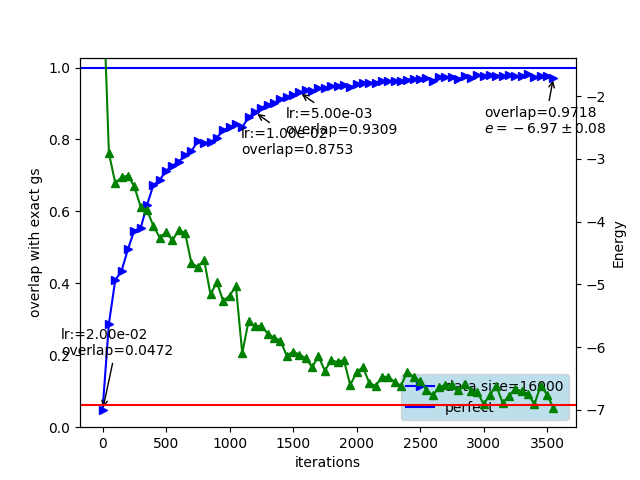
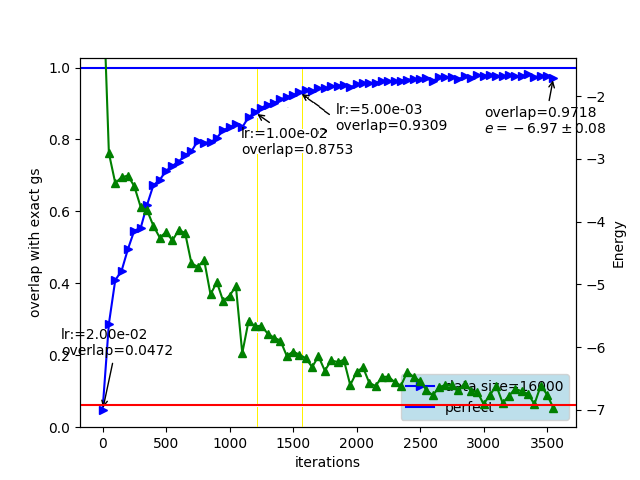
Tables and Figures edited!

Changed region(s): [[0.4375, 0.1875, 0.7188, 0.2812]]

diff --git a/Draft/template.tex b/Draft/template.tex
@@ -23,6 +23,7 @@
 \usepackage{braket}
 \usepackage{bbold}
 
+\usepackage[table]{xcolor}
 \usepackage{todonotes}
 
 
@@ -162,7 +163,7 @@ The Hamiltonian of the Kitaev model is a nearest-neighbor interaction of Pauli m
 \begin{figure}[h!]
 	\centering
 	\includegraphics[width=0.8\textwidth]{./images/diag_1.png}
-	\caption{\label{tab:r_space} Kitaev Honeycomb lattice model on a torus: The generators of the lattice in position space are named
+	\caption{\label{kit_torus} Kitaev Honeycomb lattice model on a torus: The generators of the lattice in position space are named
 	$\textbf{e}_{1}$ and  $\textbf{e}_{2}$, as shown in the image above. Hence, the lattice points are $\textbf{L} = n_{1}\textbf{e}_{1} + 
 	n_{2}\textbf{e}_{2}$ with $n_{1}, n_{2} \in \mathbb{Z}$ and the above lattice is drawn for $N_{1} = N_{2} = 4 $ with toric boundary conditions.} 
 	\label{fig:fig1}
@@ -541,7 +542,7 @@ where we used $i c^x_j c^y_j = -\sigma^z_j D_j$ and cyclic permutations. Conside
 
 Now we are at a point to explain in detail why the operators $\hat{O}_1$ and $\hat{O}_2$ can create vortices in the system. As mentioned earlier, if we flip the sign of the eigenvalue of the vortex operator at p, a vortex will be created in the system. Looking back at Equ.\hspace{0.2mm}\ref{eq:26}, we see that the vortex configuration $\{W_p\}$ is created by fixing the gauge at every link $\{u_{ij}\}$. Therefore, by changing the link operators, we can move between vortex sectors. Starting from a vortex-free sector with all link operators being $+1$, applying $\hat{O}_1$ on site $a$ will leave the $\sigma^z_a$ untouched while flipping the $\sigma^x_a$ and $\sigma^y_a$. Consequently, this will change the sign of the eigenvalue of the $u_{ij}$ for x-link and y-link attached to site $a$, leaving the system with $B_{p_1} = -1$ and $B_{p_2} = -1$. We can also move the vortices around in the system, by consecutively applying these operators on the particular sites in a path for which we want to move the vortices along. As an example, the red path shown in the Fig.\hspace{0.2mm}\ref{fig:string} corresponds to the operator
 
-\begin{equation}\label{eq:29}
+\begin{equation}
 	\begin{aligned}
 		\hat{O} = \exp{(-i\frac{\pi}{2}\sigma^z_i)} \exp{(-i\frac{\pi}{2}\sigma^x_j)}
 		\end{aligned}
@@ -582,27 +583,35 @@ Next, one needs to evaluate how $(-i \hat{\sigma}^{\alpha}_a)$ acts on $|\Xi\ran
 
 \section{Results and Discussion}\label{sec5}
 
-% \begin{figure}[h!]
-% 	\centering
-% 	\includegraphics[width=0.8\textwidth]{E_GS.pdf}
-% 	\includegraphics[width=0.8\textwidth]{E_p.pdf}
-% 	\includegraphics[width=0.8\textwidth]{DeltaE.pdf}
-% 	\includegraphics[width=0.8\textwidth]{plots.pdf}
-% 	\caption{\label{tab:r_space} Kitaev Honeycomb lattice model on a torus: The generators of the lattice in position space are named as
-% 	$\textbf{e}_{1}$ and  $\textbf{e}_{2}$, as shown in the image above. Hence, the lattice points are $\textbf{L} = n_{1}\textbf{e}_{1} + 
-% 	n_{2}\textbf{e}_{2}$ with $n_{1}, n_{2} \in \mathbb{Z}$ and the above lattice is drawn for $N_{1} = N_{2} = 4 $ with toric boundary conditions.} 
-% \end{figure}
-
 \subsection{Groundstate}
 
 In this section, we present the results for the groundstate energy estimate of different system sizes for the proposed mapping discussed in Section\hspace{0.2mm}\ref{sec3}. These results are also compared to the exact analytical expression given in Equ.\hspace{0.2mm}\ref{eq:17}. The absolute value of the energies is plotted in Fig.\hspace{0.2mm}\ref{tab:r_space}. All results for this and the following sections are for the \textit{non-Abelian} phase $J_x = J_y = J_z = 1$.
 
 The RBM has a simple fully-connected and two-layered architecture. The optimized value for the density of hidden nodes was found to be $\alpha = \frac{num_{h}}{num_{v}} = 2$. For lower values of $\alpha$, the network does not give an accurate estimate of energies, while the larger values cause over-fitting and again lead to inaccurate results. For training, the configuration space of the network has been sampled for hundreds of  times, depending on the lattice size, using the Metropolis algorithm. Moreover, the stochastic gradient descent algorithm has been used for optimization using a suitable number of iterations such that the network converges to a low enough minimum of the energy landscape.
 
+\vspace{1cm}
+
+{\rowcolors{2}{green!80!yellow!50}{green!60!yellow!30}
+\begin{tabular}[c]{|c||c|c|c|c|c|c|c|c|c|c|}
+\hline
+lattice size&$2\times2$    &$2\times3$    &$2\times4$     &$3\times3$     &$3\times4$     &$4\times4$     &$5\times5$     &$6\times6$     &$7\times7$ \\
+\hline \hline
+a.i         &-6.4721&-9.8003&-12.5851&-14.2915&-18.9869&-25.1282&-39.3892&-56.7529&-77.1249\\
+\hline
+a.ii        &-6     &-9.2915&-12.4721&-14.2915&-19.0918&-25.4164&-39.3892&-56.2668&-77.1249\\
+\hline
+b           &-6     &-9.2915&-12.4721&-14.2915&-19.0918&-25.4164&-39.3892&-56.2668&-77.1249\\
+\hline
+c           &-6.9282&-9.8003&-12.9443&-14.2915&-19.0918&-&-&-&-\\
+\hline
+d           &-6.7197&-9.5414&-12.573 &-13.7374&-18.0466&-24.0783&-37.305 &-52.920 &-71.793 \\ 
+\hline
+\end{tabular}
+}
 \begin{figure}[!htb]
 	\centering
-	\includegraphics[width=0.5\textwidth]{./images/gs_tbl.png}
-	\includegraphics[width=0.7\textwidth]{./images/plots.pdf}
+	%\includegraphics[width=0.5\textwidth]{./images/gs_tbl.png}
+	\includegraphics[width=\textwidth]{./images/plots.pdf}
 	\caption{\label{tab:r_space} Numerical results for groundstate energy calculation using Restricted Boltzmann Machines (RBM) 
 	and Feed-Forward Neural Networks (FFNN) compared to the analytically obtained exact groundstate energy using Equ.\hspace{0.2mm}\ref{eq:16}.} 
 \end{figure}
@@ -621,15 +630,41 @@ The numerical results obtained are shown in Fig.\hspace{0.2mm}\ref{tab:r_space}.
 
 Based on the results obtained for the energy of the groundstate of the system, training of the network was tested and optimized by changing the learning rate for different training phases and iteration numbers. However, the outcome did not considerably change or improve and it seems that the above results are the most accurate results one can get for this particular network architecture. We will later elaborate more on the reasons behind this discrepancy observed between the energy obtained using RBM and the analytical exact values.
 
-In order to check the effect of the relative number of hidden and visible nodes on the outcome of the network, different values for $\alpha$ were tested, keeping other parameters fixed. The $\alpha$ parameter was changed just by changing the number of hidden nodes for a fixed system size (and hence fixed visible layer size) and the results are outlined in the table below, including the number of free parameters of the network and the time needed for the network to be trained. In order to keep things simple, we focus on one particular system size. The results summarized in the table are for a $5 \times 5$ plaquette lattice with exact analytic energy being $-39.3892$.
+In order to check the effect of the relative number of hidden and visible nodes on the outcome of the network, different values for $\alpha$ were tested, keeping other parameters fixed. The $\alpha$ parameter was changed just by changing the number of hidden nodes for a fixed system size (and hence fixed visible layer size) and the results are outlined in the table below, including the number of free parameters of the network. In order to keep things simple, we focus on one particular system size. The results summarized in the table are for a $5 \times 5$ plaquette lattice with exact analytic energy being $-39.3892$.
 
-\begin{figure}[!htb]
+\begin{table}[!htb]
 	\centering
-	\includegraphics[width=0.6\textwidth]{./images/alpha.png}
+	{\rowcolors{2}{green!80!yellow!50}{green!60!yellow!30}
+    \begin{tabular}{|c|c|c|c|}
+    \hline
+    $\alpha$&Number of Hidden Nodes&Number of Parameters&Energy\\
+    \hline \hline
+    0.1&  5& 305&-27.7808(59)\\
+    \hline
+    0.3& 15& 815&-33.4312(37)\\
+    \hline
+    0.5& 25&1325&-36.6024(22)\\
+    \hline
+    1.0& 50&2600&-37.2464(13)\\
+    \hline
+    1.5& 75&3875&-37.1235(15)\\
+    \hline
+    2.0&100&5150&-37.3054(14)\\
+    \hline
+    3.0&150&7700&-37.3037(14)\\
+    \hline
+    4.0&200&10250&-37.1007(16)\\
+    \hline
+    6.0&300&15350&-37.2989(14)\\
+    \hline
+    8.0&400&20450&-37.1710(15)\\
+    \hline
+    10.0&500&25550&-37.1946(15)\\
+    \hline
+    \end{tabular}}
+    \vspace{2mm}
 	\caption{\label{tab:alpha} Numerical results for the density of hidden nodes, $\alpha = \frac{num_{h}}{num_{v}}$, and its influence on groundstate energy calculation.} 
-\end{figure}
-
-\todo{we need to get rid of time column, as it does not show anything and depends on the cpu and ... computing resources we used.}
+\end{table}
 
 % From these results we can infer the following:
 
@@ -641,12 +676,26 @@ In order to check the effect of the relative number of hidden and visible nodes 
 
 \textbf{The performance of FFNN vs. no-visible-bias RBM}
 
-In the table of Fig.\hspace{0.2mm}\ref{tab:ffnn}, we give a brief summary of the comparison results between an FFNN with one layer and a no-visible-bias RBM (referred to as novb RBM in the table). The two architectures are similar and for the same computational resources (such as CPU and memory) and system size these results have been obtained.
-\begin{figure}[!htb]
+In Table \hspace{0.2mm}\ref{tab:ffnn}, we give a brief summary of the comparison results between an FFNN with one layer and a no-visible-bias RBM (referred to as novb-RBM in the table). The two architectures are similar and for the same computational resources (such as CPU and memory) and system size these results have been obtained.
+
+\begin{table}[!htb]
 	\centering
-	\includegraphics[width=0.8\textwidth]{./images/ffnn.png}
-	\caption{\label{tab:ffnn} Comparison between a single-layer FFNN and a novb RBM performance, in terms of training time and accuracy of energy for a $5 \times 5$ plaquette lattice.} 
-\end{figure}    
+    {\rowcolors{2}{green!80!yellow!50}{green!60!yellow!30}
+    \begin{tabular}{|c|c|c|c|c|c|c|}
+    \hline
+    $\alpha$&\# Hidden Nodes&\# Parameters&Energy(FFNN)&Energy(novb-RBM)&Time(FFNN)&Time(novb-RBM)\\
+    \hline \hline
+    1.0& 50&2550&-37.2401(15)&-37.1532(15)&2783s&2754s\\
+    \hline
+    2.0&100&5100&-37.2958(14)&-36.8954(18)&4591s&5476s\\
+    \hline
+    3.0&150&7650&-37.3007(14)&-37.2191(15)&6889s&8331s\\
+    \hline
+    \end{tabular}}
+    \vspace{2mm}
+	%\includegraphics[width=0.8\textwidth]{./images/ffnn.png}
+	\caption{\label{tab:ffnn} Comparison between a single-layer FFNN and a novb-RBM performance, in terms of training time and accuracy of energy for a $5 \times 5$ plaquette lattice.} 
+\end{table}    
 
 The conclusion we reach is:
 \begin{enumerate}
@@ -666,11 +715,24 @@ As described in Section\hspace{0.2mm}\ref{sec4}, there are three theoretically e
     
 We applied all three methods to a 3x3 lattice and computed the corresponding energy levels for excited states. The numerical result obtained for the groundstate energy of a 3x3 lattice is -13.7166(2), while the theoretical groundstate energy is -14.2915. For excited states obtained by flipping spins, the results we get are shown in the table below.
 
-\begin{figure}[!htb]
+\begin{table}[!htb]
 	\centering
-	\includegraphics[width=0.6\textwidth]{./images/3x3.png}
+	{\rowcolors{2}{green!80!yellow!50}{green!60!yellow!30}
+    \begin{tabular}{|c||c|c|c|}
+    \hline
+    Spins Flipped&Energy(Method A)&Energy(Method B)&Energy(Method C)\\
+    \hline \hline
+    $\sigma_8^y$&-11.7335(5) &-12.1070(51)&-13.9146\\
+    \hline
+    $\sigma_9^y$&-11.7474(5) &-11.8873(57)&-13.9146\\
+    \hline
+    $\sigma_8^x\sigma_8^z$&unrealizable&-12.7447(37)&-13.9146\\
+    \hline
+    \end{tabular}}
+	\vspace{2mm}
+	%\includegraphics[width=0.6\textwidth]{./images/3x3.png}
 	\caption{\label{tab:3x3} Energy of excited states with a pair of vortices in a $3 \times 3$ lattice system, measured through different methods as explained in the text.} 
-\end{figure}
+\end{table}
 
 We find that method (a) is more stable than method (b), which might be due to the random initialization of RBM parameters in method (b) for the training process. Both methods, (a) and (b), deviate by a margin from the analytic values, namely method (c). This can be again explained by the fact that the state from which these states are obtained by flipping, is not a true groundstate but an entangled state. This can be confirmed by measuring the plaquette operators in the excited states we created and the result is again a value close to zero rather than $+1$ or $-1$.
 
@@ -683,7 +745,6 @@ In this section we apply the technique discussed in Section \ref{sec3.2} to reco
 	\includegraphics[width=0.8\textwidth]{./images/2x2_16k_1.png}
 	\caption{\label{fig:qst} Energy and overlap results for QST of $2 \times 2$ lattice system for different training phases with specified learning rates in the figure.} 
 \end{figure}
-\todo{@Youran: can you pls include the vertical lines in Fig11 as well? To separate different training phases?}
 
 There are many intricate parameters which one can adjust during training, such as learning rate, batch size, number of Metropolis samples, and number of single measurements. Only with a suitable choice of parameters and large enough training data set, can one achieve a satisfactory result. For the example depicted, the size of the training data set is $8 \times 32 \times 2000$ \todo{@Youran: what are the numbers?} and the hidden node density $\alpha$ is $2$. With this combinations of parameters, QST leads to an overlap of 97 percent between the exact wave function and the learned one. 
 
@@ -699,31 +760,30 @@ Starting from the state obtained from tomography as discussed above, one can the
 	\caption{\label{qst_vor} Labeling convention for plaquette operator measurements.} 
 \end{figure}
 
-For the trained RBM state after performing QST for groundstate of $2 \times 2$ lattice, the expectation values of its four plaquette operators as well as the expected and measured energies are shown in Fig.\hspace{0.2mm}\ref{tab:pl0}. \todo{plots for energy/expectation-value of plaquettes vs iteration?} Moreover, flipping the $y$- and $z$-components of the spin at lattice site number $5$ (or equivalently, applying $\hat{S}_5^{x}$) will produce a pair of vortices at $B$ and $D$ plaquettes. Therefore, the expectation value of $\hat{W}_p$ operator in these plaquettes also flips sign (see Fig.\hspace{0.2mm}\ref{tab:pl5}). Similarly, applying $\hat{S}_7^{y}$, will kill the vortex in plaquette $D$ and produce one in plaquette $A$. The changes in the sign of expectation values for these plaquettes is shown in the Fig.\hspace{0.2mm}\ref{tab:pl7} below. Finally, by applying $\hat{S}_3^{z}$ we return back to the groundstate representation (see Fig.\hspace{0.2mm}\ref{tab:pl3}). These results, prove the effectiveness of the framework developed in Section\hspace{0.2mm}\ref{sec4} for realization of vortices in RBM states, in both QST and usual learning approaches.  
+For the trained RBM state after performing QST for groundstate of $2 \times 2$ lattice, the expectation values of its four plaquette operators as well as the measured energies are shown in Table \hspace{0.2mm}\ref{tab:pl0}. Moreover, flipping the $y$- and $z$-components of the spin at lattice site number $5$ (or equivalently, applying $\hat{S}_5^{x}$) will produce a pair of vortices at $B$ and $D$ plaquettes. Therefore, the expectation value of $\hat{W}_p$ operator in these plaquettes also flips sign. Similarly, applying $\hat{S}_7^{y}$, will kill the vortex in plaquette $D$ and produce one in plaquette $A$. The changes in the sign of expectation values for these plaquettes is shown in the Table \hspace{0.2mm}\ref{tab:pl0} below. Finally, by applying $\hat{S}_3^{z}$ we return back to the groundstate representation. These results, prove the effectiveness of the framework developed in Section\hspace{0.2mm}\ref{sec4} for realization of vortices in RBM states, in both QST and usual learning approaches.  
 
-\begin{figure}[!htb]
+\begin{table}[!htb]
 	\centering
-	\includegraphics[width=\textwidth]{./images/Plaquette0.png}
-	\caption{\label{tab:pl0} Expectation values of plaquette operators for the RBM state after performing QST.} 
-\end{figure}
+	{\rowcolors{2}{green!80!yellow!50}{green!60!yellow!30}
+    \begin{tabular}{|c||c|c|c|c|c|}
+    \hline
+    Spin Flip Operator (acting successively)&$W_A$&$W_B$&$W_C$&$W_D$&Energy\\
+    \hline \hline
+    Groundstate&0.94889473&0.95168581&0.95248031&0.95528330&-6.0778\\
+    \hline
+    $\hat{S}_5^{x}$&0.94889473&-0.95168581&0.95248031&-0.95528330&-4.0105\\
+    \hline
+    $\hat{S}_7^{y}$&-0.94889473&-0.95168581&0.95248031&0.95528330&-1.8040\\
+    \hline
+    $\hat{S}_3^{z}$&0.94889473&0.95168581&0.95248031&0.95528330&0.0606\\
+    \hline
+    \end{tabular}}
+	\vspace{2mm}
+	%\includegraphics[width=\textwidth]{./images/Plaquette0.png}
+	\caption{\label{tab:pl0} Expectation values of plaquette operators after applying a series of spin flip operators on the RBM state obtained from QST.} 
+\end{table}
 
-\begin{figure}[!htb]
-	\centering
-	\includegraphics[width=\textwidth]{./images/Plaquette5.png}
-	\caption{\label{tab:pl5} Expectation values of plaquette operators obtained after applying $\hat{S}_5^{x}$ on the system.} 
-\end{figure}
 
-\begin{figure}[!htb]
-	\centering
-	\includegraphics[width=\textwidth]{./images/Plaquette7.png}
-	\caption{\label{tab:pl7} Expectation values of plaquette operators obtained after applying $\hat{S}_7^{y}$ on the system.} 
-\end{figure}
-
-\begin{figure}[!htb]
-	\centering
-	\includegraphics[width=\textwidth]{./images/Plaquette0.png}
-	\caption{\label{tab:pl3} Expectation values of plaquette operators obtained after applying $\hat{S}_3^{z}$ on the system.} 
-\end{figure}
 % \section{Topological Quantum Phase Transition}
 
 %\subsection{Implementation in \textit{Intel-QS}}
